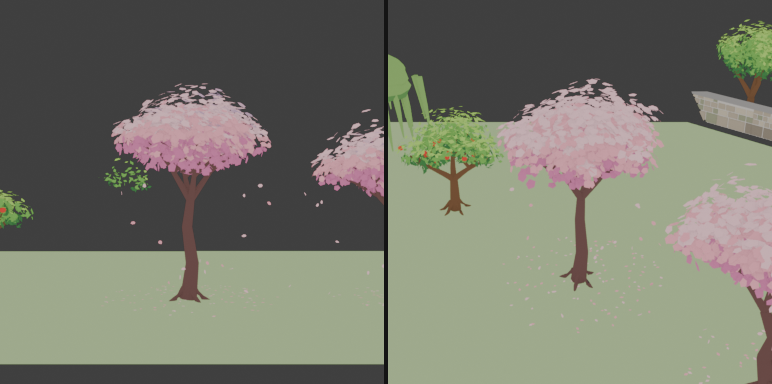
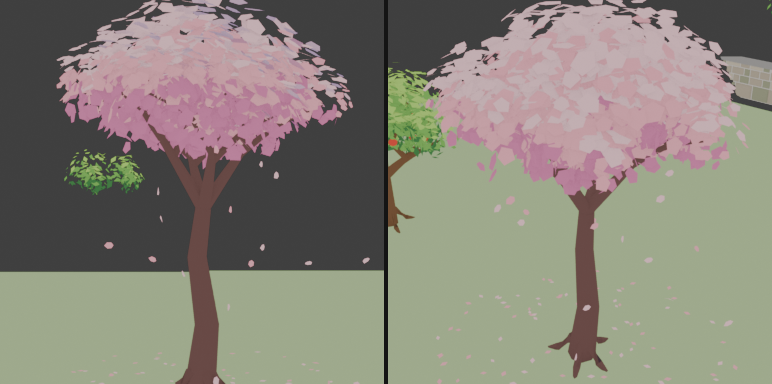
Monastery: grote blaadjes binnen, kleine buiten; blaadjes aan twijgjes
Claude-Session: https://claude.ai/code/session_01Rt9CDi9a5gimawiazNT8HK

diff --git a/tools/blender/monastery/07_willow.py b/tools/blender/monastery/07_willow.py
@@ -10,7 +10,7 @@ from mathutils import Vector, Matrix
 exec(bpy.data.texts["MON_card_trees"].as_string().split("SAK = dict")[0], globals())   # Crown, grow, tube, Geo, replace_mesh ...
 D = bpy.data
 for name, rgb in {"GH_Monastery_Willow_Light": (0.66, 0.84, 0.40), "GH_Monastery_Willow_Mid": (0.45, 0.68, 0.30),
-                  "GH_Monastery_Willow_Deep": (0.24, 0.47, 0.25)}.items():
+                  "GH_Monastery_Willow_Deep": (0.24, 0.47, 0.25), "GH_Monastery_Willow_Twig": (0.42, 0.36, 0.20)}.items():
     mkmat(name, rgb)
 WIL = ("GH_Monastery_Willow_Light", "GH_Monastery_Willow_Mid", "GH_Monastery_Willow_Deep")
 WP = dict(bark="GH_Monastery_Bark", maxd=2, middepth=1, splits=(2, 2), keep=0.55, spread=0.8, up=0.35, lratio=(0.6, 0.75), rratio=0.62)
@@ -33,7 +33,9 @@ def willow(seed=90, n_strands=78):
     for e in ends:
         C.cluster(Vector(e) + Vector((0, 0, 0.25)), 0.55, 34, 0.13, up=0.9)
     for k in range(14):
-        e = Vector(random.choice(ends)); C.cluster(e.lerp(cen, 0.3) + Vector((0, 0, 0.35)), 1.15, 90, 0.15, up=0.9, flat=0.6)
+        e = Vector(random.choice(ends)); c = e.lerp(cen, 0.3) + Vector((0, 0, 0.35))
+        tube(G, "GH_Monastery_Bark", [(e, 0.04), (e.lerp(c, 0.5) + Vector((0, 0, 0.1)), 0.025), (c, 0.014)], seg=4)
+        C.cluster(c, 1.15, 75, 0.15, up=0.9, flat=0.6)
     C.emit(G, WIL, "leaf")
     crown_top = max(v[2] for v in G.V)
     # hanging strands of leaves all round the crown
@@ -49,21 +51,39 @@ def willow(seed=90, n_strands=78):
         dirA = (Vector((1, 0.3, 0)) * 0.6 + Vector((random.uniform(-1, 1), random.uniform(-1, 1), 0))).normalized()
         dirB = Vector((-dirA.y, dirA.x, 0)); amp = 0.28 * L / 2.8 * random.uniform(0.8, 1.2)
         nc = int(L / 0.1)
-        for k in range(nc):
+        TW = G.mi("GH_Monastery_Willow_Twig")
+        P = lambda t: att + out * (0.45 * math.sin(t * 1.4)) + Vector((0, 0, -L * t))
+        # the twig: thin 3-sided strand from the crown down to the tip (sways with the leaves)
+        nt = 9; tb = len(G.V); s3 = out.cross(Vector((0, 0, 1))).normalized()
+        for k in range(nt + 1):
+            t = k / nt; c = P(t); r = 0.016 * (1 - 0.6 * t)
+            for q in range(3):
+                ang = 2 * math.pi * q / 3
+                G.V.append(tuple(c + (out * math.cos(ang) + s3 * math.sin(ang)) * r))
+            f = t ** 1.6 * amp
+            for vi in range(tb + 3 * k, tb + 3 * k + 3): sway[vi] = (dirA * f, dirB * f)
+        for k in range(nt):
+            for q in range(3):
+                G.F.append((tb + 3 * k + q, tb + 3 * k + (q + 1) % 3, tb + 3 * (k + 1) + (q + 1) % 3, tb + 3 * (k + 1) + q)); G.MI.append(TW)
+        # leaves grow from the twig: stem end ON the twig, tip pointing out and down
+        for k in range(1, nc):
             t = k / nc
-            p = att + out * (0.45 * math.sin(t * 1.4)) + Vector((0, 0, -L * t))
-            tang = (out * 0.45 * 1.4 * math.cos(t * 1.4) / L - Vector((0, 0, 1))).normalized()
-            side = out.cross(Vector((0, 0, 1))).normalized() * (0.035 if k % 2 else -0.035)
-            sz = 0.14 * (1 - 0.45 * t) * random.uniform(0.85, 1.15)
-            nrm = (out + Vector((random.uniform(-.5, .5), random.uniform(-.5, .5), 0.2))).normalized()
-            ax = (tang + side * 4).normalized(); bx = nrm.cross(ax).normalized()
-            q = p + side
-            pts = [q + ax * sz * 0.9, q + bx * sz * 0.38, q - ax * sz * 0.7, q - bx * sz * 0.38]   # leaf points down the strand
+            p = P(t)
+            tang = (P(min(t + 0.01, 1)) - P(max(t - 0.01, 0))).normalized()
+            sgn = 1 if k % 2 else -1
+            sd = (s3 * sgn * 0.8 + out * random.uniform(0.2, 0.6)).normalized()
+            ax = (tang * 0.75 + sd * 0.65).normalized()                      # leaf direction
+            nrm = (out + Vector((random.uniform(-.4, .4), random.uniform(-.4, .4), 0.2))).normalized()
+            bx = nrm.cross(ax).normalized()
+            ln = 0.26 * (1.25 - 0.6 * t) * random.uniform(0.85, 1.15); wd = ln * 0.2
+            pts = [p, p + ax * ln * 0.45 + bx * wd, p + ax * ln, p + ax * ln * 0.45 - bx * wd]
             mi = L_ if (k % 5 == 0 and t < 0.5) else D_ if (t > 0.65 and random.random() < 0.4) else M_
             if random.random() < 0.25: mi = L_
             bi = len(G.V); G.V += [tuple(v) for v in pts]; G.F.append((bi, bi + 1, bi + 2, bi + 3)); G.MI.append(mi)
-            f = t ** 1.6 * amp
-            for i in range(bi, bi + 4): sway[i] = (dirA * f, dirB * f)
+            f = t ** 1.6 * amp; f2 = (min(t + 0.06, 1)) ** 1.6 * amp       # tip swings a little further than the stem
+            sway[bi] = (dirA * f, dirB * f)
+            for vi in range(bi + 1, bi + 4): sway[vi] = (dirA * f2, dirB * f2)
+
     return G, sway, [tuple(e) for e in ends]
 
 

diff --git a/tools/blender/monastery/06_card_trees.py b/tools/blender/monastery/06_card_trees.py
@@ -22,7 +22,7 @@ GREEN = ("GH_Monastery_TreeLeaf_Light", "GH_Monastery_TreeLeaf_Mid", "GH_Monaste
 
 class Crown:
     """Collects leaf cards; colours them at the end by where they sit in the whole crown."""
-    def __init__(s): s.cards = []
+    def __init__(s, inner=1.5, outer=0.7): s.cards = []; s.inner = inner; s.outer = outer
     def cluster(s, c, r, n, size, up=0.6, flat=0.8):
         c = Vector(c)
         for _ in range(n):
@@ -36,7 +36,10 @@ class Crown:
         ctr = sum((p for p, *_ in s.cards), Vector()) / len(s.cards)
         R = max((Vector((p.x - ctr.x, p.y - ctr.y)).length for p, *_ in s.cards)) or 1
         L, Mi, Dp = (G.mi(m) for m in mats)
+        cz = (z0 + z1) / 2; R3 = max(((p - Vector((ctr.x, ctr.y, cz))).length for p, *_ in s.cards)) or 1
         for p, nrm, sz, spin, cc in s.cards:
+            d3 = (p - Vector((ctr.x, ctr.y, cz))).length / R3                    # 0 deep inside .. 1 outer edge
+            sz *= s.inner - (s.inner - s.outer) * d3 ** 1.3                       # big inside, small outside
             hz = (p.z - z0) / max(z1 - z0, 1e-3)                                  # 0 bottom .. 1 top of crown
             out = Vector((p.x - ctr.x, p.y - ctr.y)).length / R                   # 0 centre .. 1 edge
             local = (p - cc).normalized().z                                       # top of its own cluster
@@ -92,6 +95,7 @@ def card_tree(trunks, P, mats, shape, cl_r, cl_n, size, mid_r, mid_n, extra=None
         for k in range(nm):
             e = Vector(random.choice(ends))
             c = e.lerp(cen, 0.25) + Vector((0, 0, cl_r * random.uniform(0.2, 0.7)))
+            tube(G, BK, [(e, 0.035), (e.lerp(c, 0.5) + Vector((0, 0, 0.08)), 0.022), (c, 0.012)], seg=4)
             C.cluster(c, cl_r * rm * random.uniform(0.8, 1.2), cm, size * 1.05, up=P.get("cardup", 0.6), flat=0.7)
     C.emit(G, mats, shape)
     if extra: extra(G, C)
@@ -113,8 +117,8 @@ def replace_mesh(obj, G):
     for m in G.mats: me.materials.append(D.materials[m])
     me.polygons.foreach_set("material_index", G.MI); me.update()
 
-SAK = dict(bark="GH_Monastery_Bark_Sakura", maxd=3, middepth=1, splits=(3, 2, 2), keep=0.6, spread=0.75, up=0.22, lratio=(0.6, 0.72), rratio=0.62, midp=0.8, cardup=0.9, mass=(16, 2.3, 110))
-OAK = dict(bark="GH_Monastery_Bark", maxd=3, middepth=1, splits=(2, 2, 2), keep=0.75, spread=0.55, up=0.45, lratio=(0.6, 0.75), rratio=0.62, midp=0.75, cardup=0.7, mass=(10, 2.2, 70))
+SAK = dict(bark="GH_Monastery_Bark_Sakura", maxd=3, middepth=1, splits=(3, 2, 2), keep=0.6, spread=0.75, up=0.22, lratio=(0.6, 0.72), rratio=0.62, midp=0.8, cardup=0.9, mass=(16, 2.3, 85))
+OAK = dict(bark="GH_Monastery_Bark", maxd=3, middepth=1, splits=(2, 2, 2), keep=0.75, spread=0.55, up=0.45, lratio=(0.6, 0.75), rratio=0.62, midp=0.75, cardup=0.7, mass=(10, 2.2, 55))
 APL = dict(bark="GH_Monastery_Bark", maxd=2, middepth=1, splits=(3, 2), keep=0.6, spread=0.75, up=0.35, lratio=(0.6, 0.75), rratio=0.62, midp=0.9, cardup=0.7, mass=(8, 2.0, 60))
 TREES = {}
 def build_all():

diff --git a/docs/MONASTERY.md b/docs/MONASTERY.md
@@ -129,6 +129,14 @@ anders). Rond elke wilg zweven **16 vuurvliegjes** (`MON_Fireflies_Willow` als c
 
 ![Treurwilg met vuurvliegjes](monastery/willow_fireflies.png)
 
+**Volle kroon en twijgjes (2026-10-12, Bo):** in elke kaartjes-kroon zijn de blaadjes binnenin groter (×1,5) en aan de
+buitenkant kleiner (×0,7), zodat de kroon voller lijkt met minder kaartjes. Niets zweeft meer los: elke bladwolk hangt
+aan een twijgje vanaf een tak, en bij de wilg zit elke sliert aan een dun hangend twijgje (`GH_Monastery_Willow_Twig`)
+met de blaadjes eraan vast; het twijgje zwaait mee. Vertices nu: sakura ~25.600 / ~24.600, eik ~10.400 / ~12.100,
+appel ~8.000, wilg ~19.000. Backup ervoor: `Monastery_backup_before_twigs.blend`.
+
+![Wilg met twijgjes](monastery/willow_twigs.png)
+
 ## Markers (collectie `MON_Markers`)
 
 `MON_Spawn_PlayerBed`, `MON_NPC_BrotherAnsel`, `MON_Door_Cloister_Outside`, `MON_Door_East_Outside`,

diff --git a/docs/PROGRESS.md b/docs/PROGRESS.md
@@ -703,3 +703,4 @@ Doel: na Sultan kies je in de Academy je pad (Sir Garrick, Master Brink of Wizar
 - Blender (middag): sakura's met doorkijkbare kroon (takken + bloesemtrosjes) en vallende blaadjes (lus van 10 s).
 - Blender (avond): bomen in Genshin-stijl naar Bo's voorbeelden: sakura's, eiken en appelboom met een kroon van veel kleine blad-/bloesemkaartjes in lagen (licht boven, donker onder). Vallende blaadjes starten in de nieuwe kroon. Script `06_card_trees.py`.
 - Blender (avond): dennen voor nu uit de tuin (Bo bedenkt nog iets anders). Treurwilgen opnieuw in kaartjes-stijl met zwaaiende slierten en vuurvliegjes eromheen (`07_willow.py`).
+- Blender (avond): kronen met grote blaadjes binnen en kleine buiten; bladwolken en wilgenslierten hangen nu aan twijgjes (niets zweeft meer).
